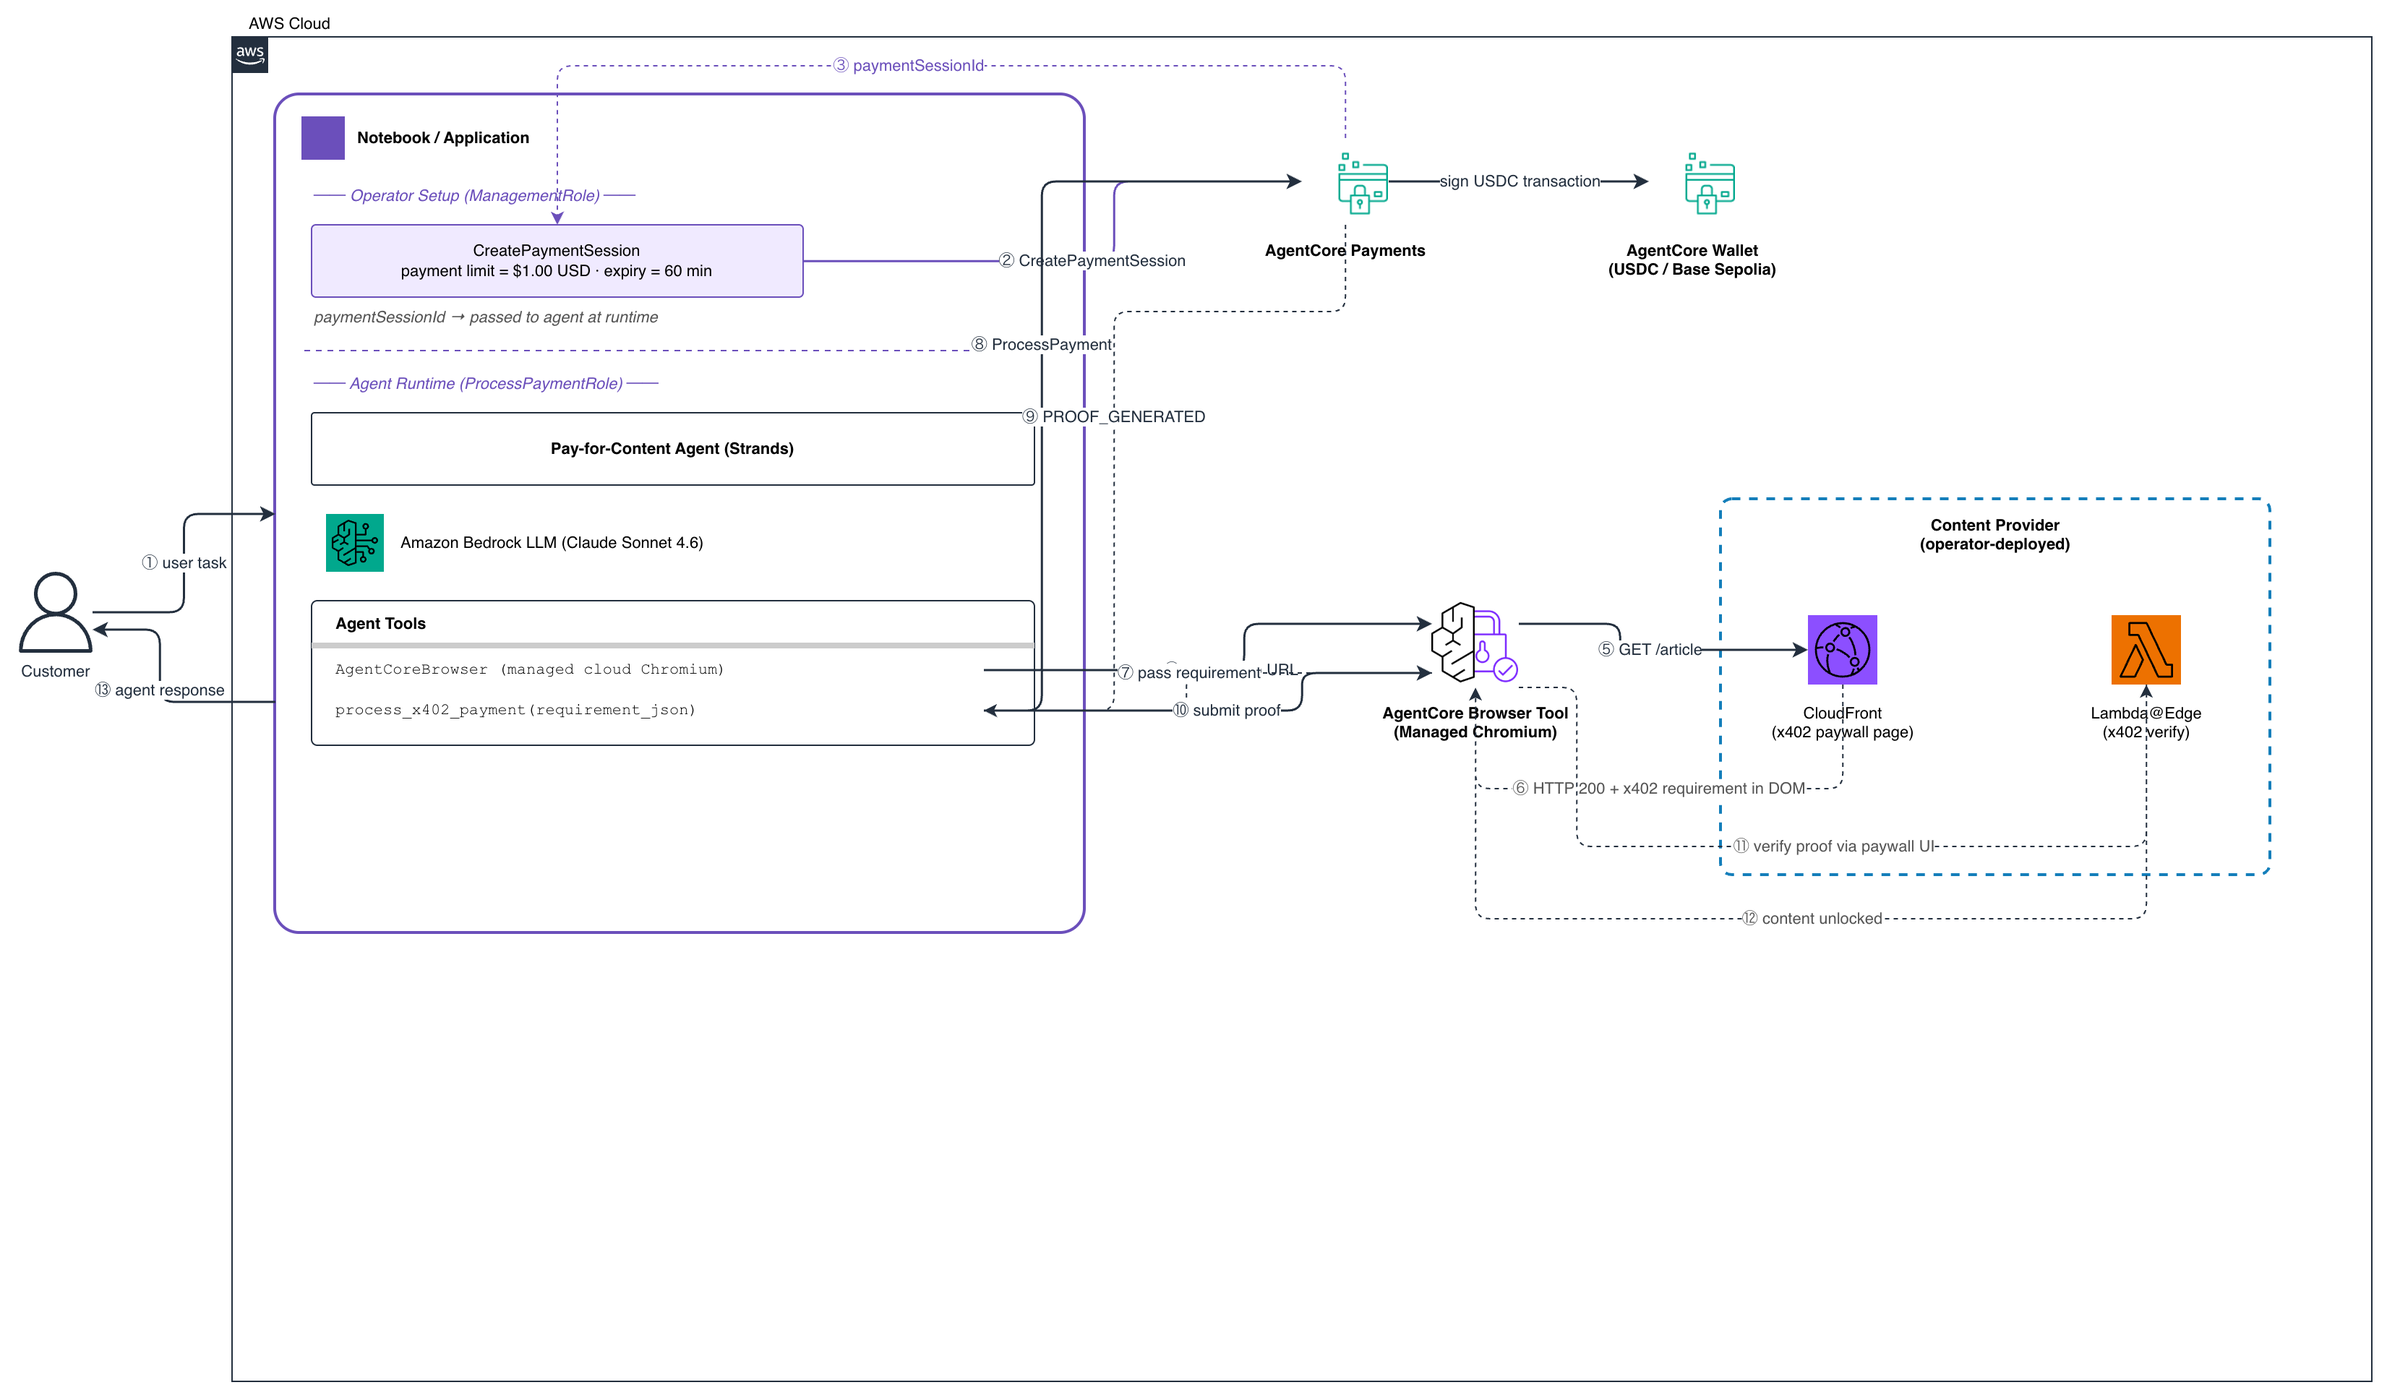
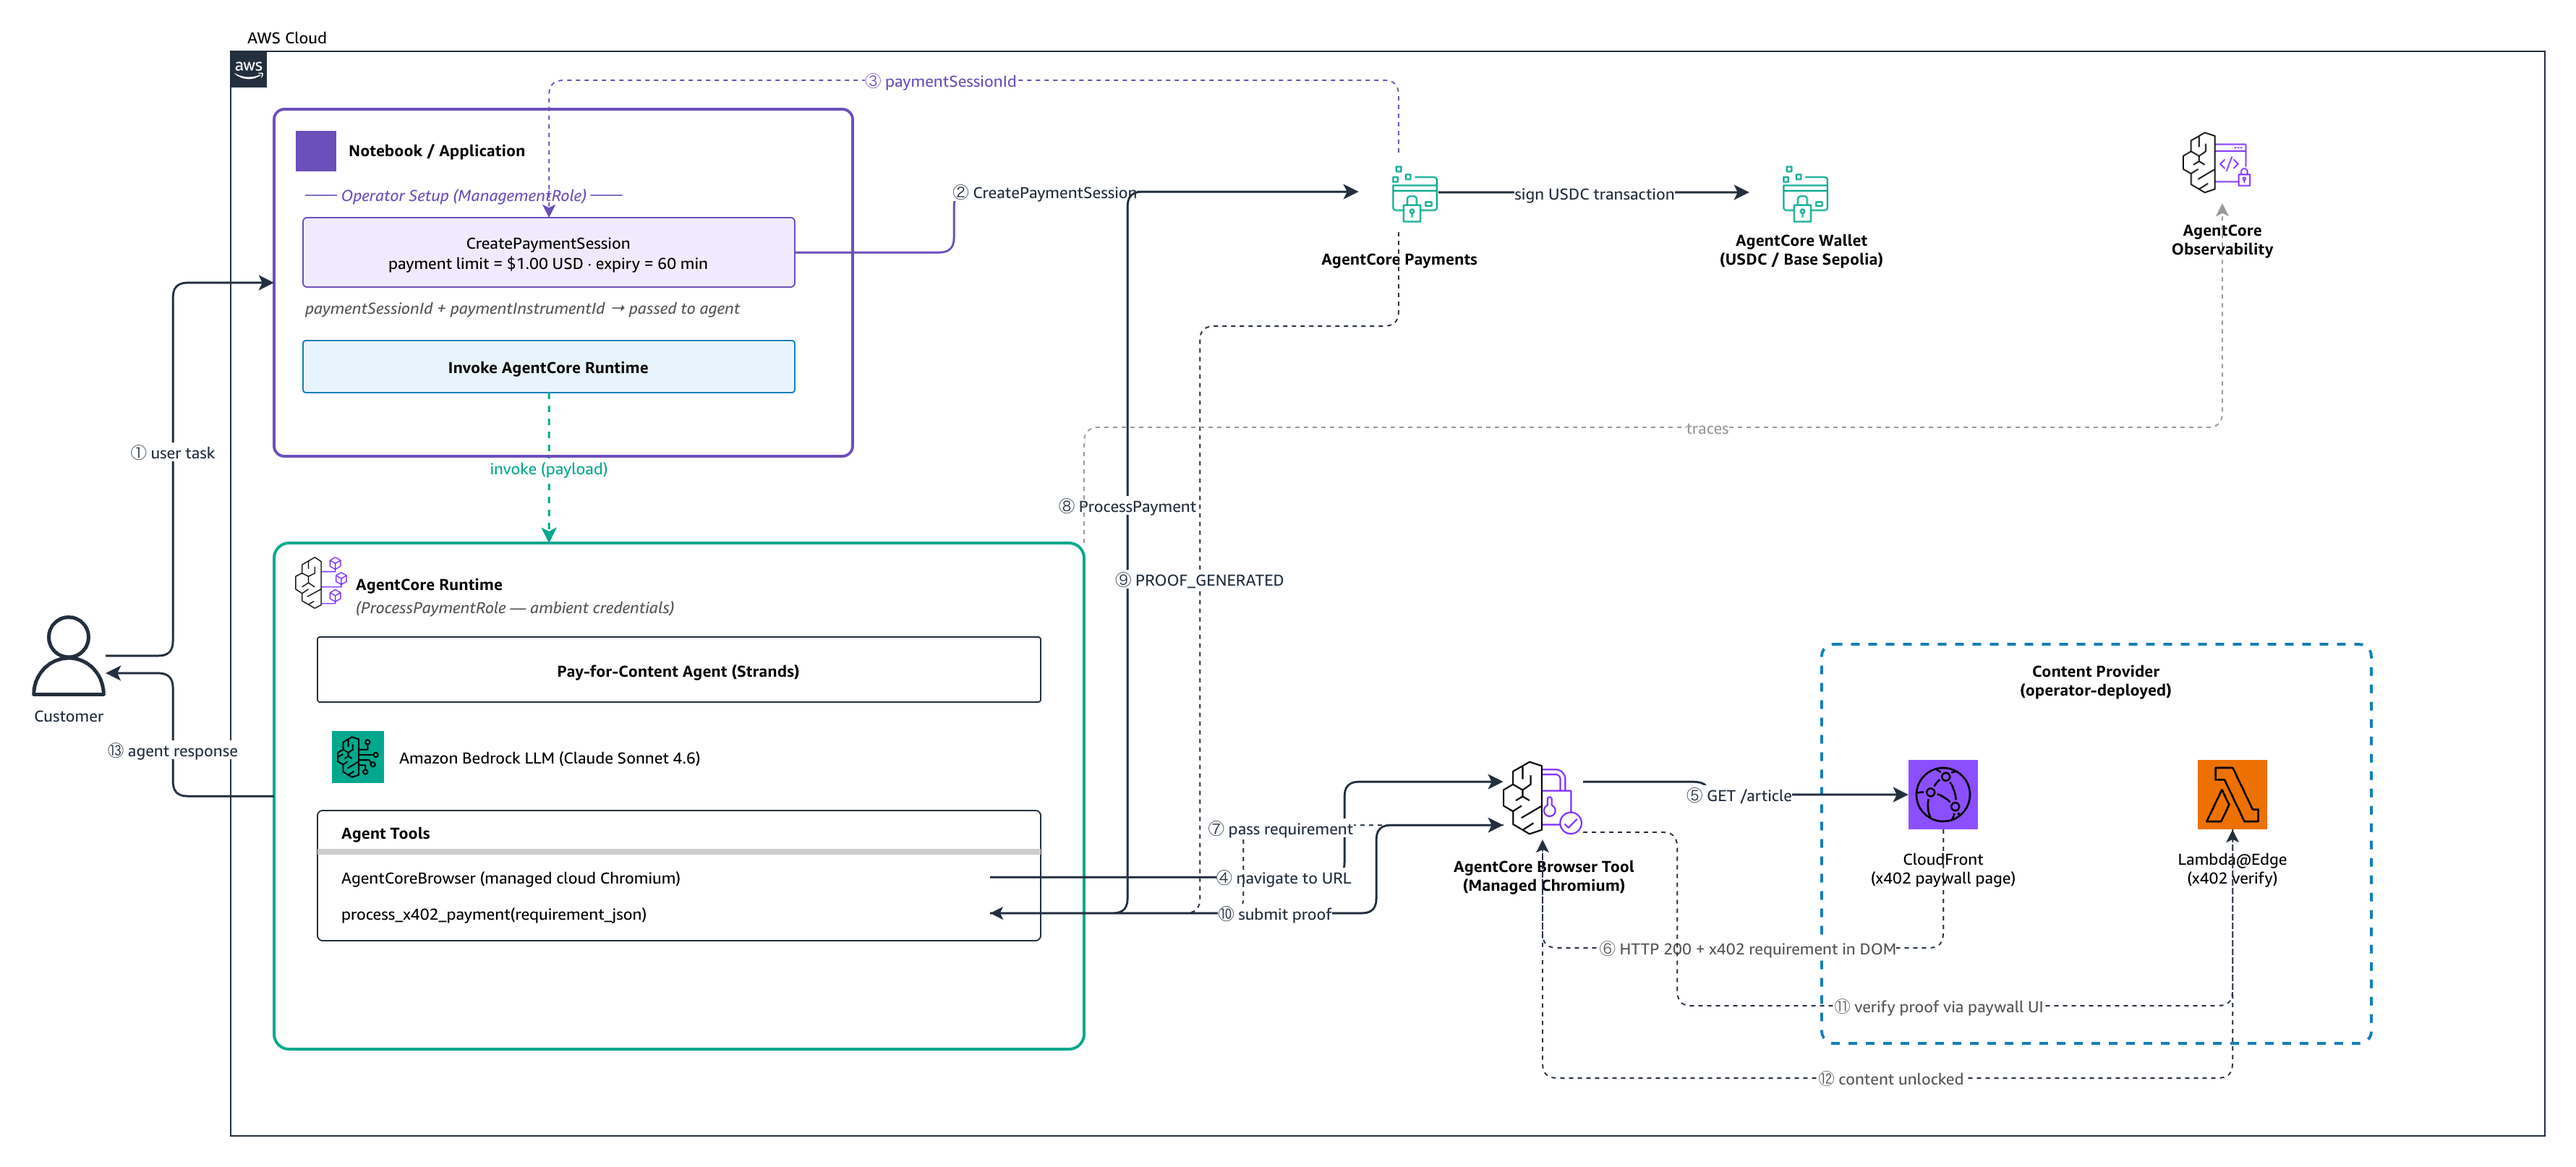
fix(payments): address Madhu + Raju PR review feedback
Madhu:
- Replace synthetic Gantt PNG with real CloudWatch GenAI Observability
  All-traces dashboard screenshot (images/observability_session_trace.png)
- Update architecture diagram to show AgentCore Observability as a
  visible component with `traces` arrow from the Runtime container
  (images/architecture_browser_paywall.png)

Raju:
- Reword Overview: "delegates signing" → "leverages AgentCore Payments
  for payment processing" (delegation language was misleading)
- Drop USDC specificity in prose: "cryptographic USDC proof" →
  "payment proof"; rename `amount_usdc` → `amount` in agent code
- Remove "or local agent process" — irrelevant in a Runtime-hosted use case
- Reword "operator-deployed" content provider description
- Add note explaining why the notebook uses boto3 clients for Payments
  resource management (AgentCore SDK doesn't yet expose those APIs);
  the agent itself is fully SDK-driven via AgentCorePaymentsPlugin
- Remove duplicated sts:AssumeRole sentence after the IAM table
  (already covered in the architecture section)
- Add explanatory comment on the synthetic 402 envelope construction
  in process_x402_payment (was unclear why we wrap the DOM-read
  requirement to satisfy generate_payment_header's input contract)

diff --git a/01-tutorials/13-AgentCore-payments/02-use-cases/pay-for-content-browser-use/agent/payment_agent.py b/01-tutorials/13-AgentCore-payments/02-use-cases/pay-for-content-browser-use/agent/payment_agent.py
@@ -128,7 +128,7 @@ def handle_request(payload, context=None):
                               the <script id="x402-requirement"> DOM element.
 
         Returns:
-            dict with proof_b64, amount_usdc, and status.
+            dict with proof_b64, amount, and status.
         """
         requirement = json.loads(requirement_json)
 
@@ -136,8 +136,15 @@ def handle_request(payload, context=None):
         amount_units = int(
             first_accept.get("maxAmountRequired") or first_accept.get("amount", 0)
         )
-        amount_usdc = amount_units / 1_000_000
+        # Token's smallest unit (e.g. 1_000_000 for USDC's 6 decimals) — the
+        # value is reported back to the caller for display, not used for
+        # routing or settlement.
+        amount = amount_units / 1_000_000
 
+        # generate_payment_header expects an HTTP-402-shaped envelope.
+        # In the browser pattern the requirement comes from a DOM script tag
+        # rather than an HTTP 402 response, so we wrap it to match the SDK's
+        # input contract.
         payment_required_request = {
             "statusCode": 402,
             "headers": {},
@@ -155,7 +162,7 @@ def handle_request(payload, context=None):
 
         return {
             "proof_b64": proof_b64,
-            "amount_usdc": amount_usdc,
+            "amount": amount,
             "status": "PROOF_GENERATED",
         }
 

diff --git a/01-tutorials/13-AgentCore-payments/02-use-cases/pay-for-content-browser-use/README.md b/01-tutorials/13-AgentCore-payments/02-use-cases/pay-for-content-browser-use/README.md
@@ -8,15 +8,15 @@ each transaction."
 
 Without AgentCore payments, an agent that needs to pay for content must either hold
 a private key (exposing credentials to the model) or interrupt the user to complete
-the payment manually. This use case shows a third path: the agent delegates signing to
-AgentCore payments, stays within human-set payment limits, and completes the entire
-browse-pay-extract flow autonomously — all from a managed Runtime container.
+the payment manually. This use case shows a third path: the agent **leverages AgentCore
+Payments for payment processing**, stays within human-set payment limits, and completes
+the entire browse-pay-extract flow autonomously from a managed Runtime container.
 
 The agent is **deployed to AgentCore Runtime** under `ProcessPaymentRole`, uses the
 **AgentCore Browser Tool** to navigate a paywalled website, reads the embedded x402
-payment requirement from the page DOM, calls `ProcessPayment` to generate a cryptographic
-USDC proof, interacts with the paywall UI, and returns the unlocked content — all
-without any private key exposure, human intervention, or local agent process.
+payment requirement from the page DOM, calls `ProcessPayment` to generate a payment
+proof, interacts with the paywall UI, and returns the unlocked content — without any
+private key exposure or human intervention.
 
 ### Use Case Details
 
@@ -39,8 +39,16 @@ without any private key exposure, human intervention, or local agent process.
 
 There are four distinct phases: **resource provisioning** (runs once), **session setup**
 (runs before each agent invocation), **deploy** (runs on agent code change), and
-**invoke** (the live payment flow). The content provider is operator-deployed
-infrastructure — it is not created by the notebook.
+**invoke** (the live payment flow). The content provider is a separate piece of
+infrastructure that you deploy from this repo's `content-provider/` CDK stack — it
+is not created by the notebook.
+
+> **Note on SDK choice:** the notebook uses boto3 clients (`bedrock-agentcore-control`
+> and `bedrock-agentcore`) for Payments resource management because the AgentCore
+> Python SDK does not yet expose `CreatePaymentManager` / `CreatePaymentSession`
+> / `CreatePaymentInstrument`. The agent itself (running on Runtime) uses the
+> `bedrock-agentcore[strands-agents]` SDK and `AgentCorePaymentsPlugin` for
+> payment processing — that side is fully SDK-driven.
 
 ```
 RESOURCE PROVISIONING  (notebook Step 3, ControlPlaneRole)
@@ -297,12 +305,6 @@ Real x402 sites will have different selectors — the agent discovers payment fo
 elements dynamically using semantic cues (button text, input types, aria-labels)
 rather than hardcoded IDs.
 
-### Alternative: x402 via AgentCore Gateway
-
-You can also access x402-protected endpoints directly via **Amazon Bedrock AgentCore
-Gateway**, which handles the payment header exchange at the API level without a browser.
-See the **Pay for Data** use case for that pattern.
-
 ---
 
 ## IAM Role Design
@@ -313,10 +315,6 @@ See the **Pay for Data** use case for that pattern.
 | `ManagementRole` | `CreatePaymentSession`, `GetPaymentSession`, `InvokeAgentRuntime` | `ProcessPayment` | Notebook (Step 4, Step 6) |
 | `ProcessPaymentRole` | `ProcessPayment`, `GetPaymentInstrument`, `GetPaymentInstrumentBalance`, browser tool, ECR pull, CloudWatch logs/metrics, X-Ray, Bedrock model invocation | All setup and session management ops (`CreatePaymentSession`, `CreatePaymentInstrument`, etc.) | **AgentCore Runtime** as execution role |
 | `ResourceRetrievalRole` | Service-side payment-token retrieval | n/a (assumed by AWS service) | AgentCore service |
-
-**The agent code never calls `sts:AssumeRole`.** Role separation is enforced at the
-infrastructure level: the Runtime container assumes `ProcessPaymentRole` directly on
-launch, and that role's IAM policy blocks every session-management action.
 
 ---
 
